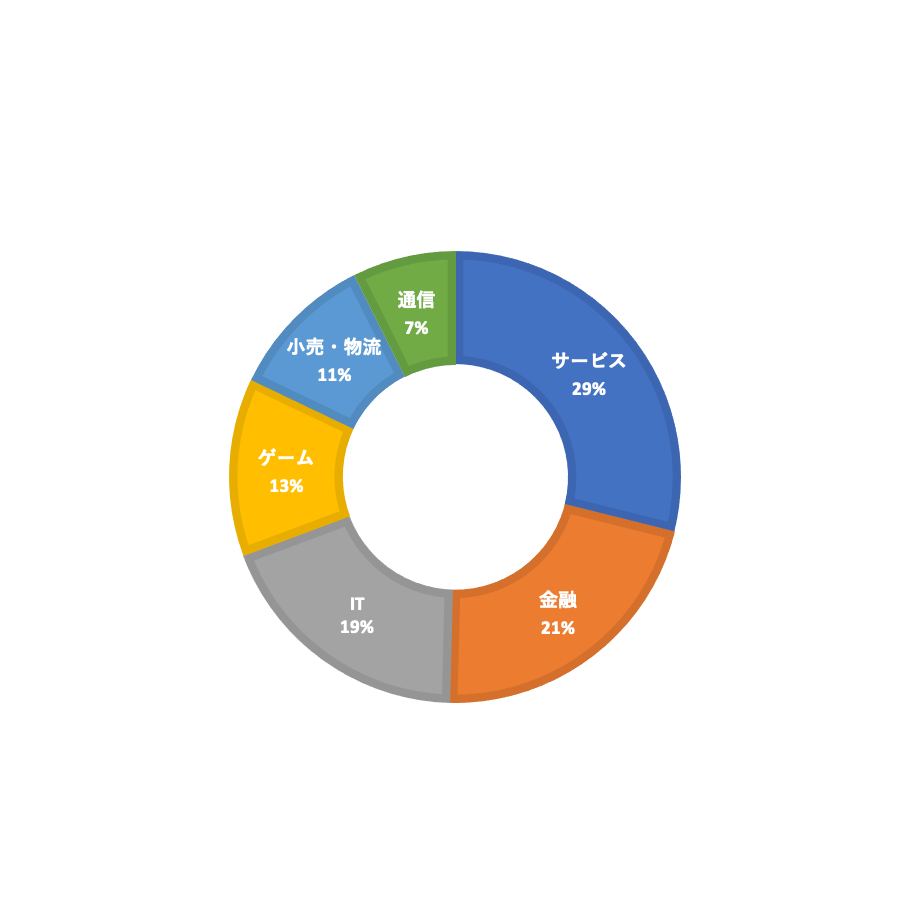
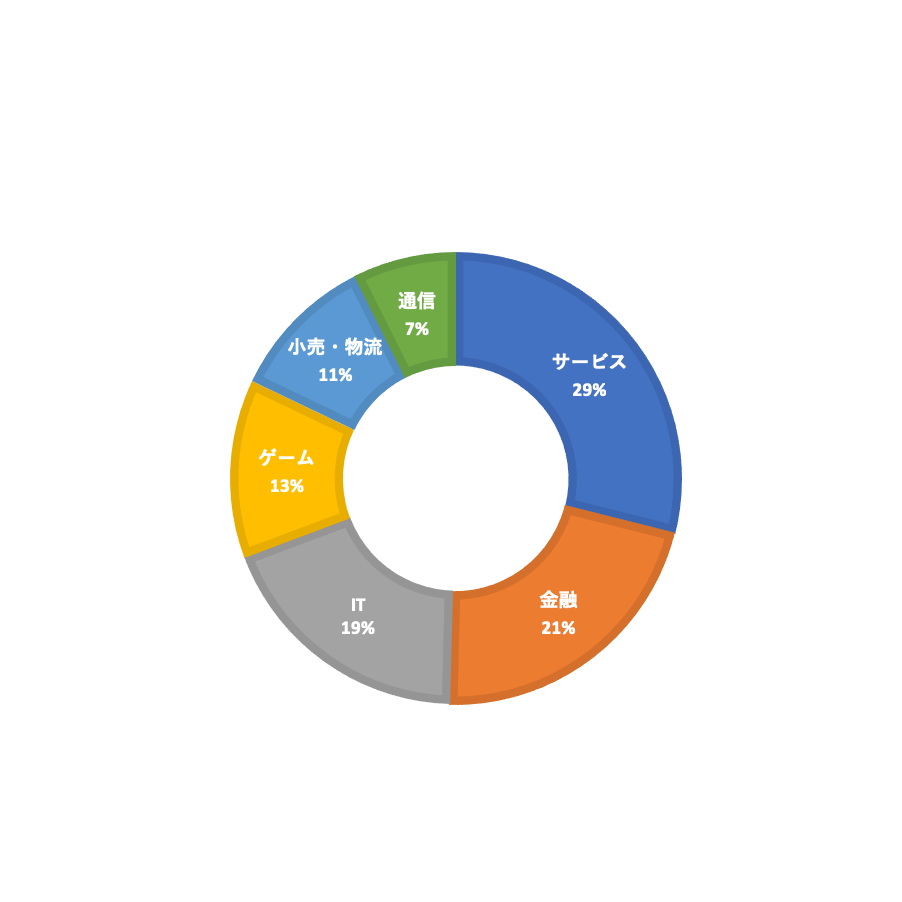
Modified graph for SP

diff --git a/public/index.html b/public/index.html
@@ -27,7 +27,7 @@
 <link href="https://fonts.googleapis.com/css2?family=Kosugi+Maru&display=swap" rel="stylesheet">
 
 <title>TTL_JP_TOP</title>
-<link href="assets/stylesheets/bundle144cdd24859aedb623c1.css" rel="stylesheet"></head>
+<link href="assets/stylesheets/bundle8eb5c27250b02174f391.css" rel="stylesheet"></head>
 <body>
 <div class="l-wrap">
 
@@ -216,17 +216,20 @@
         
         <li class="p-top-project__pieItem">
           <h2 class="p-top-project__pieItem__category">単価</h2>
-          <p class="p-top-project__pieItem__image"><img src="/assets/images/img_graph_up.png" alt="開発言語 画像"></p>
+          <p class="p-top-project__PCpieItem__image"><img src="/assets/images/img_graph_up.png" alt="開発言語 画像"></p>
+          <p class="p-top-project__SPpieItem__image"><img src="/assets/images/imgSP_graph_up.png" alt="開発言語 画像（SP）"></p>
         </li>
         
         <li class="p-top-project__pieItem">
           <h2 class="p-top-project__pieItem__category">開発内容</h2>
-          <p class="p-top-project__pieItem__image"><img src="/assets/images/img_graph_genre.png" alt="開発言語 画像"></p>
+          <p class="p-top-project__PCpieItem__image"><img src="/assets/images/img_graph_genre.png" alt="開発言語 画像"></p>
+          <p class="p-top-project__SPpieItem__image"><img src="/assets/images/imgSP_graph_genre.png" alt="開発言語 画像（SP）"></p>
         </li>
         
         <li class="p-top-project__pieItem">
           <h2 class="p-top-project__pieItem__category">開発言語</h2>
-          <p class="p-top-project__pieItem__image"><img src="/assets/images/img_graph_lang.png" alt="開発言語 画像"></p>
+          <p class="p-top-project__PCpieItem__image"><img src="/assets/images/img_graph_lang.png" alt="開発言語 画像"></p>
+          <p class="p-top-project__SPpieItem__image"><img src="/assets/images/imgSP_graph_lang.png" alt="開発言語 画像（SP）"></p>
         </li>
         
       </ul>
@@ -733,5 +736,5 @@
 </footer>
 
 </div><!-- l-wrap -->
-<script type="text/javascript" src="assets/javascripts/bundle144cdd24859aedb623c1.js"></script></body>
+<script type="text/javascript" src="assets/javascripts/bundle8eb5c27250b02174f391.js"></script></body>
 </html>

diff --git a/src/scss/object/project/_home.scss b/src/scss/object/project/_home.scss
@@ -554,6 +554,7 @@
   opacity: 0.6;
 
   @include mq('u-sp') {
+    margin-bottom: -80px;
     font-size: 30px;
   }
 }
@@ -586,13 +587,12 @@
 
   width: 100vw;
   height: auto;
-  padding-bottom: 100px;
   margin: 0 auto;
-  overflow: hidden;
+  overflow: hidden; // グラフ画像のはみ出し防ぐ
 }
 
 .p-top-project__SPpieItem__image > img {
-  transform: scale(1.8);
+  transform: scale(1.4);
 }
 
 /*// -----------------------------------------------------------------
@@ -610,7 +610,6 @@
 .p-top-project__heading {
   @include blueAndRedTitle;
 
-
   &::before {
     left: 0;
     background-color: $colorLightBlue;
@@ -619,6 +618,10 @@
   &::after {
     right: 0;
     background-color: $colorLightRed;
+  }
+
+  @include mq('u-sp') {
+    margin-bottom: 100px;
   }
 }
 

diff --git a/public/about/index.html b/public/about/index.html
@@ -27,7 +27,7 @@
 <link href="https://fonts.googleapis.com/css2?family=Kosugi+Maru&display=swap" rel="stylesheet">
 
 <title>ABOUT</title>
-<link href="../assets/stylesheets/bundle144cdd24859aedb623c1.css" rel="stylesheet"></head>
+<link href="../assets/stylesheets/bundle8eb5c27250b02174f391.css" rel="stylesheet"></head>
 <body>
 <div class="l-wrap">
 
@@ -63,5 +63,5 @@
 </footer>
 
 </div><!-- l-wrap -->
-<script type="text/javascript" src="../assets/javascripts/bundle144cdd24859aedb623c1.js"></script></body>
+<script type="text/javascript" src="../assets/javascripts/bundle8eb5c27250b02174f391.js"></script></body>
 </html>
